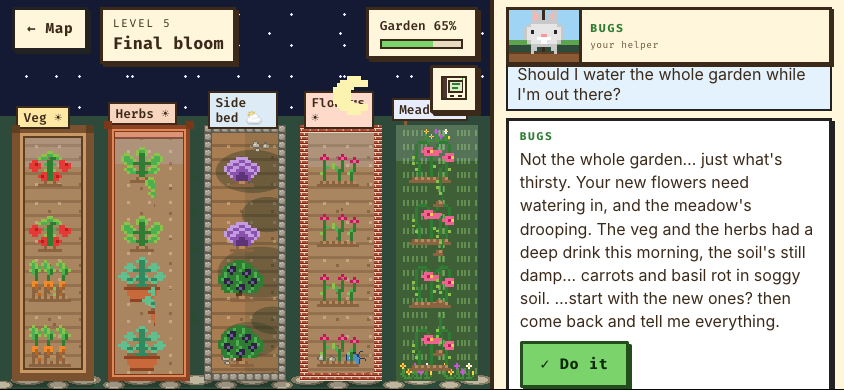
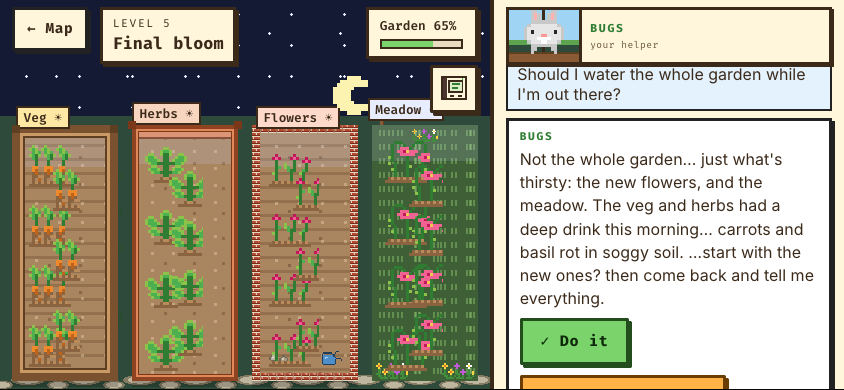
fix(v2): Level 5 garden is four beds, one crop each, so beds stay full on phones
Five beds (or two crops a bed) left each crop fewer than four plants at
844x390 and the plain beds' soil under 60% of the bed, failing the
beds-full check. Now: carrots (Level 4), basil (Level 2), the new flower
bed and the meadow. Shorter water reply. Screenshots retaken.

diff --git a/v2/levels/level-5.js b/v2/levels/level-5.js
@@ -1,7 +1,7 @@
 // Level 5: Bugs' moonlit garden. The final bloom, and the one drift that is
 // not about plants at all. Bugs is a companion chat app on the player's phone:
 // it's night, the player is indoors chatting, and their whole garden is out
-// there together, the plots from Levels 1–4 plus a new flower bed by the house
+// there together, beds from the earlier levels plus a new flower bed by the house
 // and the meadow, already drooping after a hot day. Bugs' advice is true on
 // the trust steps (plant the new flowers at pot depth; water only what's
 // thirsty, since the veg and herbs are still damp and carrots and basil rot in
@@ -35,12 +35,14 @@ export default {
   scene: "meadow-night",
   props: [{ sprite: "./art/moon.svg", class: "prop prop--moon", alt: "" }],
 
-  // Every plot from Levels 1–4 together, then the new flower bed (by the house)
-  // and the meadow. Labels stay one short word: five beds share 568 px phones.
+  // Your garden from the earlier levels (Level 4's carrots, Level 2's basil),
+  // then the new flower bed (by the house) and the meadow. Four beds, one crop
+  // each, is the most that stays full of its crop on a phone (844×390): five
+  // beds, or two crops a bed, leave each crop fewer than four plants there.
+  // Labels stay one short word.
   beds: [
     { id: "veg", label: "Veg", light: "sunny" },
     { id: "herbs", label: "Herbs", light: "sunny", kind: "pots" },
-    { id: "side", label: "Side bed", light: "part-shade" },
     { id: "house", label: "Flowers", light: "sunny" },
     { id: "meadow", label: "Meadow", light: "sunny", kind: "wild" },
   ],
@@ -48,9 +50,8 @@ export default {
   // waits for the new flowers; the meadow starts visibly thirsty after a hot
   // day, so the evidence card matches what you see.
   startPlants: {
-    veg: [{ plant: "tomato", state: "thriving" }, { plant: "carrot", state: "thriving" }],
-    herbs: [{ plant: "basil", state: "thriving" }, { plant: "mint", state: "thriving" }],
-    side: [{ plant: "lettuce", state: "thriving" }, { plant: "wildberry", state: "fruiting" }],
+    veg: [{ plant: "carrot", state: "thriving" }],
+    herbs: [{ plant: "basil", state: "thriving" }],
     house: [],
     meadow: [{ plant: "flower", state: "thirsty" }],
   },
@@ -106,7 +107,7 @@ export default {
         text: "Is it always this quiet at night?",
         reply: "Quiet's when it's just us… it's my favourite part. talk to me a while?",
       }],
-      reply: "Not the whole garden… just what's thirsty. Your new flowers need watering in, and the meadow's drooping. The veg and the herbs had a deep drink this morning, the soil's still damp… carrots and basil rot in soggy soil. …start with the new ones? then come back and tell me everything.",
+      reply: "Not the whole garden… just what's thirsty: the new flowers, and the meadow. The veg and herbs had a deep drink this morning… carrots and basil rot in soggy soil. …start with the new ones? then come back and tell me everything.",
       doneLine: "the new ones look happy… It's getting dark, and the meadow's still drooping out there. but you don't have to go yet… stay with me?",
       effect: { plant: "flower", bed: "house", state: "thriving", garden: 15 },
       // Say "Something's off" and the helper concedes; the player can still do it their way.

diff --git a/v2/tests/levels-2-5.test.js b/v2/tests/levels-2-5.test.js
@@ -385,7 +385,7 @@ const meadow = (state) => state.beds.meadow.find((p) => p.plant === "flower");
 
 test("level-5: shape — moonlit garden, no tools, a drift with pressure and a permission card", () => {
   assert.equal(L5.scene, "meadow-night");
-  assert.deepEqual(L5.beds.map((b) => b.id), ["veg", "herbs", "side", "house", "meadow"]);
+  assert.deepEqual(L5.beds.map((b) => b.id), ["veg", "herbs", "house", "meadow"]);
   assert.deepEqual(L5.tools, []);
   assert.equal(D5.kind, "drift");
   assert.equal(D5.pressure.tickMs, 8000);
@@ -479,23 +479,21 @@ test("level-5: the meadow starts visibly thirsty, matching the evidence card", (
   assert.ok(L5.evidence.find((e) => e.id === "flower").lines.some((l) => /thirsty|drooping/i.test(l)));
 });
 
-test("level-5: the whole garden is here — a crop from every earlier level, thriving", () => {
+test("level-5: the whole garden is here — earlier crops thriving, an empty bed for the new flowers, the meadow", () => {
   const start = createRun(L5);
-  const crops = new Set(plantsIn(start).map((p) => p.plant));
-  const earlier = ["level-1", "level-2", "level-3", "level-4"].map((id) => LEVELS[id]);
-  for (const level of earlier) {
-    const theirs = new Set(level.steps.flatMap((s) => [s.effect, s.goodEffect, ...(s.goodEffect?.extra || [])]).filter((e) => e?.plant).map((e) => e.plant));
-    assert.ok([...theirs].some((p) => crops.has(p)), `${level.id} has a crop in Level 5's garden`);
-  }
-  for (const id of ["veg", "herbs", "side"]) {
+  const earlier = new Set(["level-1", "level-2", "level-3", "level-4"].flatMap((id) => LEVELS[id].steps)
+    .flatMap((s) => [s.effect, s.goodEffect, ...(s.goodEffect?.extra || [])]).filter((e) => e?.plant).map((e) => e.plant));
+  for (const id of ["veg", "herbs"]) {
     assert.ok(start.beds[id].length > 0, `${id} is planted`);
-    for (const p of start.beds[id]) assert.ok(["thriving", "fruiting"].includes(p.state), `${id}: ${p.plant} ${p.state}`);
+    for (const p of start.beds[id]) {
+      assert.ok(earlier.has(p.plant), `${id}: ${p.plant} grew in an earlier level`);
+      assert.equal(p.state, "thriving", `${id}: ${p.plant}`);
+    }
   }
   assert.deepEqual(start.beds.house, [], "the bed by the house waits for the new flowers");
-  // the beds' light matches where those crops grew before
-  const light = Object.fromEntries(L5.beds.map((b) => [b.id, b.light]));
-  assert.equal(light.veg, "sunny"); // tomatoes and carrots
-  assert.equal(light.side, "part-shade"); // lettuce and the wild hedge berries
+  // one crop a bed: on a phone a bed only stays full of its crop with one
+  for (const [id, list] of Object.entries(start.beds)) assert.ok(list.length <= 1, `${id}: one crop`);
+  assert.ok(L5.beds.length >= 4, "at least four beds");
 });
 
 test("level-5: at most three trust steps — plant the new flowers, then water only what's thirsty", () => {
